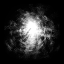
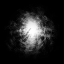
src, media: more particle tweaks :D

diff --git a/src/game/weapon.cpp b/src/game/weapon.cpp
@@ -366,7 +366,7 @@ namespace game
 
     void explode(bool local, gameent *owner, const vec &v, const vec &vel, dynent *safe, int damage, int atk)
     {
-        particle_splash(PART_SPARK, 200, 300, v, 0x50CFE5, 0.24f);
+        particle_splash(PART_SPARK, 200, 300, v, 0x50CFE5, 0.45f);
         playsound(S_PULSEEXPLODE, &v);
         particle_fireball(v, 1.15f*attacks[atk].exprad, PART_PULSE_BURST, int(attacks[atk].exprad*20), 0x50CFE5, 4.0f);
         vec debrisorigin = vec(v).sub(vec(vel).mul(5));
@@ -481,7 +481,7 @@ namespace game
                     vec dir = vec(dv).normalize(),
                         tail = vec(dir).mul(-len).add(pos),
                         head = vec(dir).mul(2.4f).add(pos);
-                    particle_flare(tail, head, 1, PART_PULSE_SIDE, 0x50CFE5, 2.4f);
+                    particle_flare(tail, head, 1, PART_PULSE_SIDE, 0x50CFE5, 2.5f);
                 }
             }
             if(exploded)
@@ -518,7 +518,7 @@ namespace game
                 break;
 
             case ATK_RAIL_SHOOT:
-                particle_splash(PART_SPARK, 200, 500, to, 0x50CFE5, 0.24f);
+                particle_splash(PART_SPARK, 200, 250, to, 0x50CFE5, 0.45f);
                 particle_flare(hudgunorigin(gun, from, to, d), to, 500, PART_RAIL_TRAIL, 0x50CFE5, 0.5f);
                 if(muzzleflash && d->muzzle.x >= 0)
                     particle_flare(d->muzzle, d->muzzle, 150, PART_MUZZLE_FLASH3, 0xFFFFFF, 1.25f, d);
